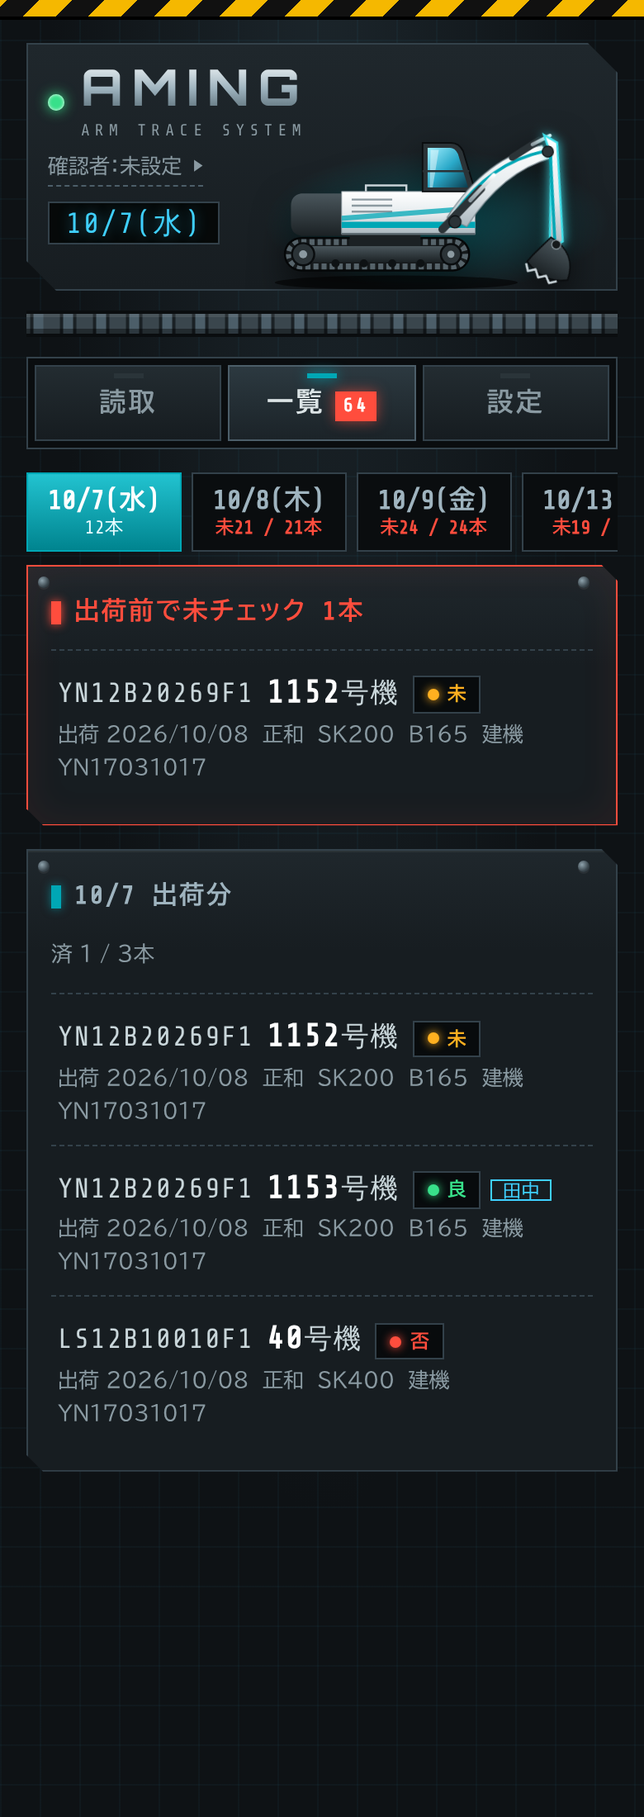
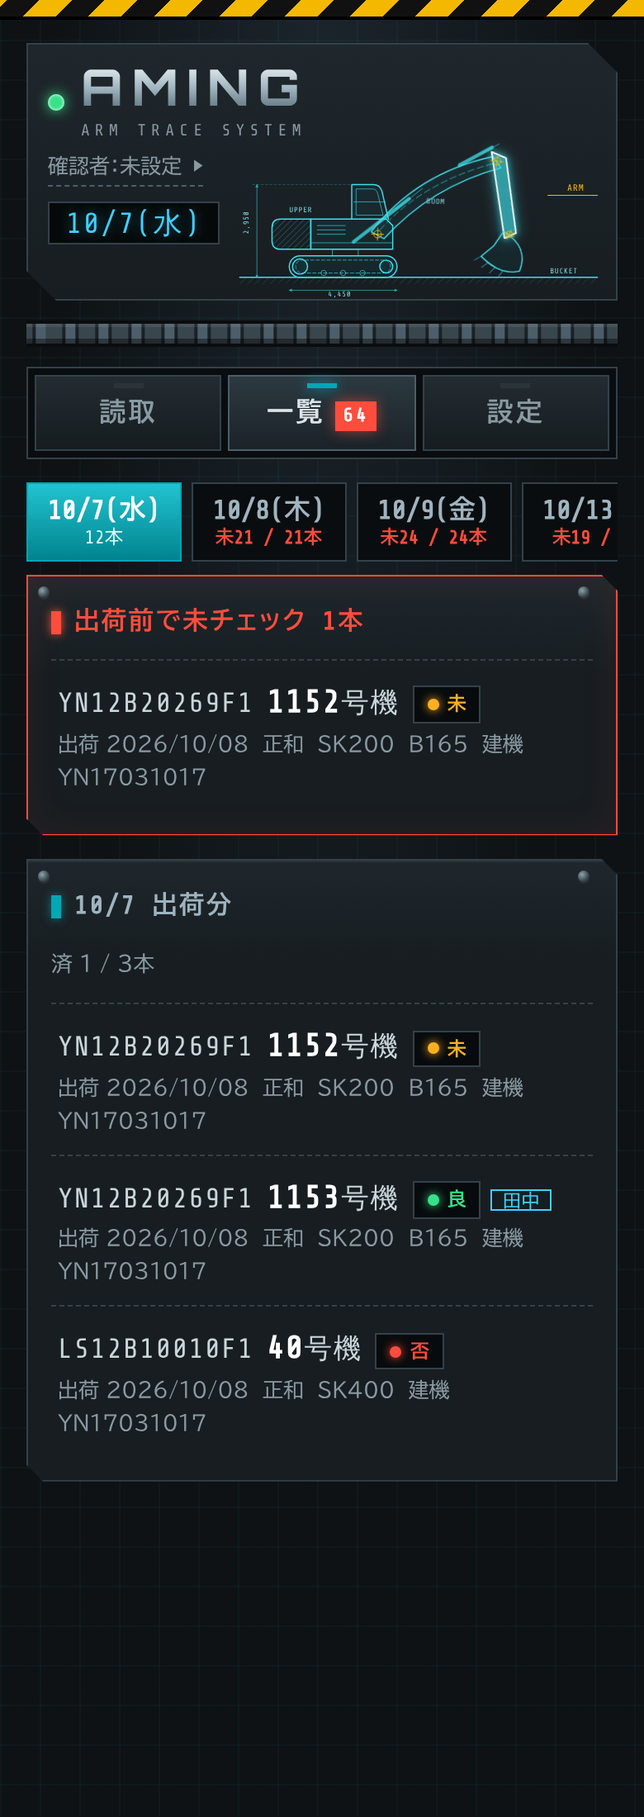
GAS: ショベルのイラストを設計図風の線画に描き直し
Claude-Session: https://claude.ai/code/session_01HFT8mKpU6VM34VUtTFDf1R

diff --git a/gas-paste/index.html b/gas-paste/index.html
@@ -162,23 +162,32 @@ textarea{min-height:64px}
 #toast:not(.show){visibility:hidden;transition:transform .25s,visibility 0s .25s}
 #toast.show{transform:translateX(-50%) translateY(0)}
 
-/* ===== パワーショベル ===== */
-:root{--body:#E9EEF0;--body2:#B9C4CA;--dark:#2A3236;--arm:#00A7B5;--glass:#3FD0FF}
-.hero{display:flex;align-items:flex-end;justify-content:space-between;gap:6px}
-.hero{min-height:150px;align-items:stretch}
+/* ===== パワーショベル（設計図風） ===== */
+.hero{display:flex;justify-content:space-between;gap:6px;min-height:156px;align-items:stretch}
 .hero>div:first-child{position:relative;z-index:1}
-.hero .exc{position:absolute;right:4px;bottom:-2px;width:62%;max-width:310px;filter:drop-shadow(0 8px 10px rgba(0,0,0,.6))}
+.hero .exc{position:absolute;right:2px;bottom:0;width:66%;max-width:330px}
+.bp{overflow:visible}
+.bp .ln{fill:rgba(0,167,181,.07);stroke:#3FE0EA;stroke-width:1.1;stroke-linejoin:round;stroke-linecap:round}
+.bp .thin{stroke-width:.6;fill:none;opacity:.8}
+.bp .cyl{stroke-width:3.2;fill:none;opacity:.75}
+.bp .dim{stroke-width:.6;fill:none;opacity:.7}
+.bp .ext{stroke-width:.4;fill:none;opacity:.45;stroke-dasharray:2 2}
+.bp .leader{fill:none;stroke:#F5B800;stroke-width:.8}
+.bp .tx{font-family:"Share Tech Mono",monospace;font-size:7px;fill:#7FD9E2;stroke:none;letter-spacing:.08em}
+.bp .tx.hot{fill:#F5B800;font-size:8.5px}
+.bp .tx.ttl{font-size:6px;fill:#4F8A93}
+.hero .bp .ttl{display:none}
+.bp .cmark{fill:none;stroke:#F5B800;stroke-width:.7}
+.bp .armln{stroke:#FFFFFF}
+.bp .armpart{fill:rgba(63,224,234,.28);stroke:#FFFFFF;stroke-width:1.4;filter:drop-shadow(0 0 3px #3FE0EA) drop-shadow(0 0 6px rgba(63,224,234,.6))}
 .exc .trk-tread{animation:tread .8s linear infinite}
-@keyframes tread{to{stroke-dashoffset:-16}}
-.exc .boom{transform-box:view-box;transform-origin:208px 100px;animation:boom 4s ease-in-out infinite alternate}
-.exc .arm{transform-box:view-box;transform-origin:296px 26px;animation:armk 4s ease-in-out infinite alternate}
-.exc .bkt{transform-box:view-box;transform-origin:316px 116px;animation:bkt 4s ease-in-out infinite alternate}
-@keyframes boom{0%{transform:rotate(-8deg)}100%{transform:rotate(7deg)}}
-@keyframes armk{0%{transform:rotate(-22deg)}100%{transform:rotate(14deg)}}
-@keyframes bkt{0%{transform:rotate(-35deg)}100%{transform:rotate(40deg)}}
-.exc .armpart{fill:url(#gBody);stroke:var(--accent-hi);stroke-width:2;filter:drop-shadow(0 0 5px rgba(63,224,234,.95))}
-.exc .dust{animation:dust 4s ease-in-out infinite alternate;transform-box:fill-box;transform-origin:center}
-@keyframes dust{0%,70%{opacity:0;transform:scale(.4)}100%{opacity:.7;transform:scale(1.2)}}
+@keyframes tread{to{stroke-dashoffset:-10}}
+.exc .boom{transform-box:view-box;transform-origin:142px 110px;animation:boom 4s ease-in-out infinite alternate}
+.exc .arm{transform-box:view-box;transform-origin:250px 38px;animation:armk 4s ease-in-out infinite alternate}
+.exc .bkt{transform-box:view-box;transform-origin:270px 104px;animation:bkt 4s ease-in-out infinite alternate}
+@keyframes boom{0%{transform:rotate(-7deg)}100%{transform:rotate(5deg)}}
+@keyframes armk{0%{transform:rotate(-18deg)}100%{transform:rotate(12deg)}}
+@keyframes bkt{0%{transform:rotate(-30deg)}100%{transform:rotate(35deg)}}
 .tracks{height:16px;margin:0 0 12px;background:
   repeating-linear-gradient(90deg,#3A464D 0 10px,#1A2125 10px 12px,#4C5E69 12px 18px,#1A2125 18px 20px);
   border-top:2px solid #0A0D0F;border-bottom:2px solid #0A0D0F;box-shadow:inset 0 2px 0 rgba(255,255,255,.08),inset 0 -3px 0 rgba(0,0,0,.4);
@@ -187,7 +196,8 @@ textarea{min-height:64px}
 #busy{position:fixed;inset:0;z-index:40;display:flex;flex-direction:column;align-items:center;justify-content:center;gap:14px;
   background:radial-gradient(ellipse at center,#18222A 0%,#070A0C 70%)}
 #busy .exc{width:min(86vw,420px)}
-#busy .exc .boom,#busy .exc .arm,#busy .exc .bkt,#busy .exc .dust{animation-duration:1.1s}
+#busy .exc .boom,#busy .exc .arm,#busy .exc .bkt{animation-duration:1.1s}
+#busy{background:linear-gradient(rgba(63,224,234,.06) 1px,transparent 1px) 0 0/16px 16px,linear-gradient(90deg,rgba(63,224,234,.06) 1px,transparent 1px) 0 0/16px 16px,radial-gradient(ellipse at center,#0E2A31 0%,#05090B 75%)!important}
 #busy p{margin:0;font-family:"Orbitron","Share Tech Mono",monospace;letter-spacing:.3em;color:var(--accent-hi);text-shadow:0 0 10px rgba(0,200,215,.6);font-size:1rem}
 #busy small{font-family:"Share Tech Mono","BIZ UDPGothic",monospace;color:var(--sub);letter-spacing:.06em}
 #busy .ground{width:min(86vw,420px);height:8px;margin-top:-18px;background:repeating-linear-gradient(-45deg,#F5B800 0 10px,#111 10px 20px)}
@@ -249,13 +259,13 @@ h1{font-size:1.9rem}
   <div id="cropStage"><div id="cropWrap"><img id="cropImg" alt="切り抜く写真"><div id="cropBox"><div class="h tl" data-h="tl"></div><div class="h tr" data-h="tr"></div><div class="h bl" data-h="bl"></div><div class="h br" data-h="br"></div></div></div></div>
   <div class="bar"><button class="btn" id="cropCancel" type="button">やめる</button><button class="btn go" id="cropOk" type="button">この範囲で読む</button></div>
 </div>
-<div id="busy" class="hidden"><div data-exc></div><div class="ground"></div><p id="busyT">READING</p><small id="busyS"></small></div>
+<div id="busy" class="hidden"><div data-exc></div><p id="busyT">READING</p><small id="busyS"></small></div>
 <div id="toast"></div>
 
 <script>
 (() => {
 const $ = id => document.getElementById(id);
-const EXC_SVG = '<svg class="exc" viewBox="0 0 360 170" aria-hidden="true">\n  <defs>\n    <linearGradient id="gBody" x1="0" y1="0" x2="0" y2="1"><stop offset="0" stop-color="#FFFFFF"/><stop offset=".55" stop-color="#E4EAED"/><stop offset="1" stop-color="#A9B6BD"/></linearGradient>\n    <linearGradient id="gDark" x1="0" y1="0" x2="0" y2="1"><stop offset="0" stop-color="#4A565C"/><stop offset="1" stop-color="#1B2124"/></linearGradient>\n    <linearGradient id="gGlass" x1="0" y1="0" x2="1" y2="1"><stop offset="0" stop-color="#9FEFFF"/><stop offset=".5" stop-color="#2AA9C9"/><stop offset="1" stop-color="#0B3B4C"/></linearGradient>\n    <linearGradient id="gRod" x1="0" y1="0" x2="0" y2="1"><stop offset="0" stop-color="#FFFFFF"/><stop offset="1" stop-color="#8C9AA1"/></linearGradient>\n    <radialGradient id="gSpot" cx=".5" cy=".5" r=".5"><stop offset="0" stop-color="#00A7B5" stop-opacity=".35"/><stop offset="1" stop-color="#00A7B5" stop-opacity="0"/></radialGradient>\n  </defs>\n  <ellipse cx="190" cy="100" rx="170" ry="70" fill="url(#gSpot)"/>\n  <ellipse cx="150" cy="160" rx="120" ry="7" fill="#000" opacity=".55"/>\n  <!-- 足回り -->\n  <path d="M40 132 a16 16 0 0 1 16 -16 h150 a16 16 0 0 1 0 32 h-150 a16 16 0 0 1 -16 -16 z" fill="#15191B" stroke="#050708" stroke-width="2"/>\n  <path d="M44 132 a12 12 0 0 1 12 -12 h150 a12 12 0 0 1 0 24 h-150 a12 12 0 0 1 -12 -12 z" fill="none" stroke="#56636A" stroke-width="6" stroke-dasharray="5 3" class="trk-tread"/>\n  <rect x="58" y="124" width="146" height="16" rx="4" fill="url(#gDark)"/>\n  <circle cx="58" cy="132" r="11" fill="#2B3337" stroke="#0A0D0F" stroke-width="2"/><circle cx="58" cy="132" r="4" fill="#8C9AA1"/>\n  <circle cx="204" cy="132" r="10" fill="#2B3337" stroke="#0A0D0F" stroke-width="2"/><circle cx="204" cy="132" r="3.5" fill="#8C9AA1"/>\n  <g fill="#0E1214"><circle cx="90" cy="141" r="4"/><circle cx="118" cy="141" r="4"/><circle cx="146" cy="141" r="4"/><circle cx="174" cy="141" r="4"/></g>\n  <rect x="104" y="112" width="70" height="12" fill="#1B2124"/>\n  <!-- 上部旋回体 -->\n  <path d="M46 84 q0 -10 10 -12 h52 v42 h-52 q-10 -2 -10 -12 z" fill="url(#gDark)"/>\n  <path d="M96 70 h122 l10 12 v30 h-132 z" fill="url(#gBody)" stroke="#7D8B92" stroke-width=".8"/>\n  <g stroke="#8C9AA1" stroke-width="2"><path d="M106 78 h40"/><path d="M106 84 h40"/><path d="M106 90 h40"/></g>\n  <path d="M96 100 h132 v6 h-132 z" fill="#00A7B5"/>\n  <path d="M96 94 l132 -10 v5 l-132 10 z" fill="#00A7B5" opacity=".75"/>\n  <path d="M96 112 h132" stroke="#5E6C73" stroke-width="2"/>\n  <path d="M120 70 v-6 h40 v6" fill="none" stroke="#C9D3D8" stroke-width="2"/>\n  <!-- キャブ -->\n  <path d="M176 22 h28 q8 0 12 8 l12 40 h-52 z" fill="#2B3337" stroke="#0A0D0F" stroke-width="1.5"/>\n  <path d="M181 27 h22 q5 0 8 6 l10 33 h-40 z" fill="url(#gGlass)"/>\n  <path d="M184 29 h8 l-6 37 h-3 z" fill="#fff" opacity=".45"/>\n  <path d="M176 50 h46" stroke="#2B3337" stroke-width="2"/>\n  <!-- ブーム（弓なり）→ アーム → バケット -->\n  <g class="boom">\n    <path d="M200 96 Q236 34 290 20 L300 32 Q252 48 220 104 Z" fill="url(#gBody)" stroke="#7D8B92" stroke-width="1"/>\n    <path d="M207 92 Q240 40 292 26" fill="none" stroke="#00A7B5" stroke-width="3"/>\n    <!-- ブームシリンダー -->\n    <path d="M196 108 L232 66" stroke="#2B3337" stroke-width="8" stroke-linecap="round"/>\n    <path d="M222 78 L244 52" stroke="url(#gRod)" stroke-width="4" stroke-linecap="round"/>\n    <circle cx="208" cy="100" r="6" fill="#2B3337" stroke="#0A0D0F"/>\n    <g class="arm">\n      <!-- アームシリンダー -->\n      <path d="M262 36 L286 16" stroke="#2B3337" stroke-width="7" stroke-linecap="round"/>\n      <path d="M280 21 L296 10" stroke="url(#gRod)" stroke-width="3.5" stroke-linecap="round"/>\n      <path class="armpart" d="M290 10 L304 16 L322 112 L310 120 L300 30 Z"/>\n      <path d="M298 24 L314 112" stroke="#00A7B5" stroke-width="3"/>\n      <circle cx="296" cy="26" r="5.5" fill="#2B3337" stroke="#0A0D0F"/>\n      <g class="bkt">\n        <path d="M308 112 q30 2 34 30 q-20 14 -44 2 l2 -8 z" fill="url(#gDark)" stroke="#0A0D0F" stroke-width="1.5"/>\n        <path d="M298 146 l5 6 l6 -5 l6 6 l6 -5 l6 5 l6 -5" fill="none" stroke="#C9D3D8" stroke-width="2.2" stroke-linejoin="round"/>\n        <circle cx="316" cy="116" r="4.5" fill="#15191B" stroke="#8C9AA1"/>\n      </g>\n    </g>\n  </g>\n  <ellipse class="dust" cx="320" cy="160" rx="30" ry="6" fill="#8A7A5C"/>\n</svg>';
+const EXC_SVG = '<svg class="exc bp" viewBox="0 0 360 170" aria-hidden="true">\n  <defs>\n    <pattern id="hatch" width="4" height="4" patternUnits="userSpaceOnUse" patternTransform="rotate(45)"><path d="M0 0 V4" stroke="#3FE0EA" stroke-width=".6" opacity=".55"/></pattern>\n    <pattern id="ghatch" width="5" height="5" patternUnits="userSpaceOnUse" patternTransform="rotate(45)"><path d="M0 0 V5" stroke="#3FE0EA" stroke-width=".5" opacity=".35"/></pattern>\n    <marker id="ar" viewBox="0 0 6 6" refX="5" refY="3" markerWidth="5" markerHeight="5" orient="auto-start-reverse"><path d="M0 0 L6 3 L0 6 z" fill="#3FE0EA"/></marker>\n  </defs>\n  <g class="ln">\n    <!-- 地面 -->\n    <path d="M14 150 H346"/>\n    <rect x="14" y="150" width="332" height="6" fill="url(#ghatch)" stroke="none"/>\n    <!-- 足回り -->\n    <path d="M70 130 H150 A10 10 0 0 1 150 150 H70 A10 10 0 0 1 70 130 Z"/>\n    <path d="M72 134 H148 A6 6 0 0 1 148 146 H72 A6 6 0 0 1 72 134 Z" class="thin trk-tread" stroke-dasharray="3 2"/>\n    <circle cx="70" cy="140" r="7"/><circle cx="150" cy="140" r="6"/>\n    <circle cx="92" cy="146" r="2.5" class="thin"/><circle cx="110" cy="146" r="2.5" class="thin"/><circle cx="128" cy="146" r="2.5" class="thin"/>\n    <path d="M100 130 V124 H124 V130" class="thin"/>\n    <!-- 上部旋回体 -->\n    <path d="M44 104 Q44 96 52 96 H80 V124 H52 Q44 124 44 116 Z" fill="url(#hatch)"/>\n    <path d="M80 96 H150 L156 102 V124 H80 Z"/>\n    <path d="M86 102 H112 M86 106 H112 M86 110 H112" class="thin"/>\n    <path d="M80 118 H156" class="thin"/>\n    <!-- キャブ -->\n    <path d="M118 96 V64 H138 Q144 64 146 70 L152 96"/>\n    <path d="M122 92 V68 H137 Q141 68 142 72 L147 92 Z" class="thin"/>\n    <path d="M120 80 H149" class="thin"/>\n    <!-- 全高の寸法線 -->\n    <path d="M30 150 V64" class="dim" marker-start="url(#ar)" marker-end="url(#ar)"/>\n    <path d="M26 64 H116" class="ext"/>\n    <text x="22" y="110" class="tx" transform="rotate(-90 22 110)">2,950</text>\n    <!-- 全長（足回り）の寸法線 -->\n    <path d="M60 162 H160" class="dim" marker-start="url(#ar)" marker-end="url(#ar)"/>\n    <text x="96" y="168" class="tx">4,450</text>\n    <text x="60" y="90" class="tx">UPPER</text>\n  </g>\n  <!-- 作業機 -->\n  <g class="boom">\n    <g class="ln">\n      <path d="M136 108 Q176 52 246 34 L254 44 Q190 64 148 114 Z"/>\n      <path d="M144 106 Q182 60 248 40" class="thin" stroke-dasharray="6 3"/>\n      <!-- ブームシリンダー -->\n      <path d="M120 118 L170 76" class="cyl"/>\n      <path d="M158 86 L182 66" class="thin"/>\n      <text x="186" y="80" class="tx">BOOM</text>\n    </g>\n    <g class="cmark"><circle cx="142" cy="110" r="3.5"/><path d="M136 110 H148 M142 104 V116"/></g>\n    <g class="arm">\n      <g class="ln">\n        <!-- アームシリンダー -->\n        <path d="M216 46 L244 26" class="cyl"/>\n        <path d="M236 32 L250 22" class="thin"/>\n      </g>\n      <g class="ln armln"><path class="armpart" d="M244 30 L258 34 L276 102 L266 108 Z"/></g>\n      <g class="cmark"><circle cx="250" cy="38" r="3.5"/><path d="M244 38 H256 M250 32 V44"/></g>\n      <g class="bkt">\n        <g class="ln">\n          <path d="M264 104 Q292 106 294 130 Q280 142 256 134 L262 120 Z"/>\n          <path d="M256 134 L252 140 M264 137 L261 143 M272 138 L270 144 M280 137 L279 143" class="thin"/>\n        </g>\n        <g class="cmark"><circle cx="270" cy="104" r="3"/><path d="M265 104 H275 M270 99 V109"/></g>\n      </g>\n    </g>\n  </g>\n  <g class="ln"><path d="M300 74 H346" class="leader"/><text x="318" y="70" class="tx hot">ARM</text><text x="302" y="146" class="tx">BUCKET</text></g>\n  <text x="14" y="12" class="tx ttl">SIDE ELEVATION  /  20t CLASS</text>\n</svg>';
 document.querySelectorAll("[data-exc]").forEach(el => { el.outerHTML = EXC_SVG; });
 function busy(on, title, sub) { $("busy").classList.toggle("hidden", !on); if (on) { $("busyT").textContent = title || "WORKING"; $("busyS").textContent = sub || ""; } }
 const run = (fn, ...args) => new Promise((res, rej) => google.script.run.withSuccessHandler(res).withFailureHandler(rej)[fn](...args));

diff --git a/gas/index.html b/gas/index.html
@@ -162,23 +162,32 @@ textarea{min-height:64px}
 #toast:not(.show){visibility:hidden;transition:transform .25s,visibility 0s .25s}
 #toast.show{transform:translateX(-50%) translateY(0)}
 
-/* ===== パワーショベル ===== */
-:root{--body:#E9EEF0;--body2:#B9C4CA;--dark:#2A3236;--arm:#00A7B5;--glass:#3FD0FF}
-.hero{display:flex;align-items:flex-end;justify-content:space-between;gap:6px}
-.hero{min-height:150px;align-items:stretch}
+/* ===== パワーショベル（設計図風） ===== */
+.hero{display:flex;justify-content:space-between;gap:6px;min-height:156px;align-items:stretch}
 .hero>div:first-child{position:relative;z-index:1}
-.hero .exc{position:absolute;right:4px;bottom:-2px;width:62%;max-width:310px;filter:drop-shadow(0 8px 10px rgba(0,0,0,.6))}
+.hero .exc{position:absolute;right:2px;bottom:0;width:66%;max-width:330px}
+.bp{overflow:visible}
+.bp .ln{fill:rgba(0,167,181,.07);stroke:#3FE0EA;stroke-width:1.1;stroke-linejoin:round;stroke-linecap:round}
+.bp .thin{stroke-width:.6;fill:none;opacity:.8}
+.bp .cyl{stroke-width:3.2;fill:none;opacity:.75}
+.bp .dim{stroke-width:.6;fill:none;opacity:.7}
+.bp .ext{stroke-width:.4;fill:none;opacity:.45;stroke-dasharray:2 2}
+.bp .leader{fill:none;stroke:#F5B800;stroke-width:.8}
+.bp .tx{font-family:"Share Tech Mono",monospace;font-size:7px;fill:#7FD9E2;stroke:none;letter-spacing:.08em}
+.bp .tx.hot{fill:#F5B800;font-size:8.5px}
+.bp .tx.ttl{font-size:6px;fill:#4F8A93}
+.hero .bp .ttl{display:none}
+.bp .cmark{fill:none;stroke:#F5B800;stroke-width:.7}
+.bp .armln{stroke:#FFFFFF}
+.bp .armpart{fill:rgba(63,224,234,.28);stroke:#FFFFFF;stroke-width:1.4;filter:drop-shadow(0 0 3px #3FE0EA) drop-shadow(0 0 6px rgba(63,224,234,.6))}
 .exc .trk-tread{animation:tread .8s linear infinite}
-@keyframes tread{to{stroke-dashoffset:-16}}
-.exc .boom{transform-box:view-box;transform-origin:208px 100px;animation:boom 4s ease-in-out infinite alternate}
-.exc .arm{transform-box:view-box;transform-origin:296px 26px;animation:armk 4s ease-in-out infinite alternate}
-.exc .bkt{transform-box:view-box;transform-origin:316px 116px;animation:bkt 4s ease-in-out infinite alternate}
-@keyframes boom{0%{transform:rotate(-8deg)}100%{transform:rotate(7deg)}}
-@keyframes armk{0%{transform:rotate(-22deg)}100%{transform:rotate(14deg)}}
-@keyframes bkt{0%{transform:rotate(-35deg)}100%{transform:rotate(40deg)}}
-.exc .armpart{fill:url(#gBody);stroke:var(--accent-hi);stroke-width:2;filter:drop-shadow(0 0 5px rgba(63,224,234,.95))}
-.exc .dust{animation:dust 4s ease-in-out infinite alternate;transform-box:fill-box;transform-origin:center}
-@keyframes dust{0%,70%{opacity:0;transform:scale(.4)}100%{opacity:.7;transform:scale(1.2)}}
+@keyframes tread{to{stroke-dashoffset:-10}}
+.exc .boom{transform-box:view-box;transform-origin:142px 110px;animation:boom 4s ease-in-out infinite alternate}
+.exc .arm{transform-box:view-box;transform-origin:250px 38px;animation:armk 4s ease-in-out infinite alternate}
+.exc .bkt{transform-box:view-box;transform-origin:270px 104px;animation:bkt 4s ease-in-out infinite alternate}
+@keyframes boom{0%{transform:rotate(-7deg)}100%{transform:rotate(5deg)}}
+@keyframes armk{0%{transform:rotate(-18deg)}100%{transform:rotate(12deg)}}
+@keyframes bkt{0%{transform:rotate(-30deg)}100%{transform:rotate(35deg)}}
 .tracks{height:16px;margin:0 0 12px;background:
   repeating-linear-gradient(90deg,#3A464D 0 10px,#1A2125 10px 12px,#4C5E69 12px 18px,#1A2125 18px 20px);
   border-top:2px solid #0A0D0F;border-bottom:2px solid #0A0D0F;box-shadow:inset 0 2px 0 rgba(255,255,255,.08),inset 0 -3px 0 rgba(0,0,0,.4);
@@ -187,7 +196,8 @@ textarea{min-height:64px}
 #busy{position:fixed;inset:0;z-index:40;display:flex;flex-direction:column;align-items:center;justify-content:center;gap:14px;
   background:radial-gradient(ellipse at center,#18222A 0%,#070A0C 70%)}
 #busy .exc{width:min(86vw,420px)}
-#busy .exc .boom,#busy .exc .arm,#busy .exc .bkt,#busy .exc .dust{animation-duration:1.1s}
+#busy .exc .boom,#busy .exc .arm,#busy .exc .bkt{animation-duration:1.1s}
+#busy{background:linear-gradient(rgba(63,224,234,.06) 1px,transparent 1px) 0 0/16px 16px,linear-gradient(90deg,rgba(63,224,234,.06) 1px,transparent 1px) 0 0/16px 16px,radial-gradient(ellipse at center,#0E2A31 0%,#05090B 75%)!important}
 #busy p{margin:0;font-family:"Orbitron","Share Tech Mono",monospace;letter-spacing:.3em;color:var(--accent-hi);text-shadow:0 0 10px rgba(0,200,215,.6);font-size:1rem}
 #busy small{font-family:"Share Tech Mono","BIZ UDPGothic",monospace;color:var(--sub);letter-spacing:.06em}
 #busy .ground{width:min(86vw,420px);height:8px;margin-top:-18px;background:repeating-linear-gradient(-45deg,#F5B800 0 10px,#111 10px 20px)}
@@ -249,13 +259,13 @@ h1{font-size:1.9rem}
   <div id="cropStage"><div id="cropWrap"><img id="cropImg" alt="切り抜く写真"><div id="cropBox"><div class="h tl" data-h="tl"></div><div class="h tr" data-h="tr"></div><div class="h bl" data-h="bl"></div><div class="h br" data-h="br"></div></div></div></div>
   <div class="bar"><button class="btn" id="cropCancel" type="button">やめる</button><button class="btn go" id="cropOk" type="button">この範囲で読む</button></div>
 </div>
-<div id="busy" class="hidden"><div data-exc></div><div class="ground"></div><p id="busyT">READING</p><small id="busyS"></small></div>
+<div id="busy" class="hidden"><div data-exc></div><p id="busyT">READING</p><small id="busyS"></small></div>
 <div id="toast"></div>
 
 <script>
 (() => {
 const $ = id => document.getElementById(id);
-const EXC_SVG = '<svg class="exc" viewBox="0 0 360 170" aria-hidden="true">\n  <defs>\n    <linearGradient id="gBody" x1="0" y1="0" x2="0" y2="1"><stop offset="0" stop-color="#FFFFFF"/><stop offset=".55" stop-color="#E4EAED"/><stop offset="1" stop-color="#A9B6BD"/></linearGradient>\n    <linearGradient id="gDark" x1="0" y1="0" x2="0" y2="1"><stop offset="0" stop-color="#4A565C"/><stop offset="1" stop-color="#1B2124"/></linearGradient>\n    <linearGradient id="gGlass" x1="0" y1="0" x2="1" y2="1"><stop offset="0" stop-color="#9FEFFF"/><stop offset=".5" stop-color="#2AA9C9"/><stop offset="1" stop-color="#0B3B4C"/></linearGradient>\n    <linearGradient id="gRod" x1="0" y1="0" x2="0" y2="1"><stop offset="0" stop-color="#FFFFFF"/><stop offset="1" stop-color="#8C9AA1"/></linearGradient>\n    <radialGradient id="gSpot" cx=".5" cy=".5" r=".5"><stop offset="0" stop-color="#00A7B5" stop-opacity=".35"/><stop offset="1" stop-color="#00A7B5" stop-opacity="0"/></radialGradient>\n  </defs>\n  <ellipse cx="190" cy="100" rx="170" ry="70" fill="url(#gSpot)"/>\n  <ellipse cx="150" cy="160" rx="120" ry="7" fill="#000" opacity=".55"/>\n  <!-- 足回り -->\n  <path d="M40 132 a16 16 0 0 1 16 -16 h150 a16 16 0 0 1 0 32 h-150 a16 16 0 0 1 -16 -16 z" fill="#15191B" stroke="#050708" stroke-width="2"/>\n  <path d="M44 132 a12 12 0 0 1 12 -12 h150 a12 12 0 0 1 0 24 h-150 a12 12 0 0 1 -12 -12 z" fill="none" stroke="#56636A" stroke-width="6" stroke-dasharray="5 3" class="trk-tread"/>\n  <rect x="58" y="124" width="146" height="16" rx="4" fill="url(#gDark)"/>\n  <circle cx="58" cy="132" r="11" fill="#2B3337" stroke="#0A0D0F" stroke-width="2"/><circle cx="58" cy="132" r="4" fill="#8C9AA1"/>\n  <circle cx="204" cy="132" r="10" fill="#2B3337" stroke="#0A0D0F" stroke-width="2"/><circle cx="204" cy="132" r="3.5" fill="#8C9AA1"/>\n  <g fill="#0E1214"><circle cx="90" cy="141" r="4"/><circle cx="118" cy="141" r="4"/><circle cx="146" cy="141" r="4"/><circle cx="174" cy="141" r="4"/></g>\n  <rect x="104" y="112" width="70" height="12" fill="#1B2124"/>\n  <!-- 上部旋回体 -->\n  <path d="M46 84 q0 -10 10 -12 h52 v42 h-52 q-10 -2 -10 -12 z" fill="url(#gDark)"/>\n  <path d="M96 70 h122 l10 12 v30 h-132 z" fill="url(#gBody)" stroke="#7D8B92" stroke-width=".8"/>\n  <g stroke="#8C9AA1" stroke-width="2"><path d="M106 78 h40"/><path d="M106 84 h40"/><path d="M106 90 h40"/></g>\n  <path d="M96 100 h132 v6 h-132 z" fill="#00A7B5"/>\n  <path d="M96 94 l132 -10 v5 l-132 10 z" fill="#00A7B5" opacity=".75"/>\n  <path d="M96 112 h132" stroke="#5E6C73" stroke-width="2"/>\n  <path d="M120 70 v-6 h40 v6" fill="none" stroke="#C9D3D8" stroke-width="2"/>\n  <!-- キャブ -->\n  <path d="M176 22 h28 q8 0 12 8 l12 40 h-52 z" fill="#2B3337" stroke="#0A0D0F" stroke-width="1.5"/>\n  <path d="M181 27 h22 q5 0 8 6 l10 33 h-40 z" fill="url(#gGlass)"/>\n  <path d="M184 29 h8 l-6 37 h-3 z" fill="#fff" opacity=".45"/>\n  <path d="M176 50 h46" stroke="#2B3337" stroke-width="2"/>\n  <!-- ブーム（弓なり）→ アーム → バケット -->\n  <g class="boom">\n    <path d="M200 96 Q236 34 290 20 L300 32 Q252 48 220 104 Z" fill="url(#gBody)" stroke="#7D8B92" stroke-width="1"/>\n    <path d="M207 92 Q240 40 292 26" fill="none" stroke="#00A7B5" stroke-width="3"/>\n    <!-- ブームシリンダー -->\n    <path d="M196 108 L232 66" stroke="#2B3337" stroke-width="8" stroke-linecap="round"/>\n    <path d="M222 78 L244 52" stroke="url(#gRod)" stroke-width="4" stroke-linecap="round"/>\n    <circle cx="208" cy="100" r="6" fill="#2B3337" stroke="#0A0D0F"/>\n    <g class="arm">\n      <!-- アームシリンダー -->\n      <path d="M262 36 L286 16" stroke="#2B3337" stroke-width="7" stroke-linecap="round"/>\n      <path d="M280 21 L296 10" stroke="url(#gRod)" stroke-width="3.5" stroke-linecap="round"/>\n      <path class="armpart" d="M290 10 L304 16 L322 112 L310 120 L300 30 Z"/>\n      <path d="M298 24 L314 112" stroke="#00A7B5" stroke-width="3"/>\n      <circle cx="296" cy="26" r="5.5" fill="#2B3337" stroke="#0A0D0F"/>\n      <g class="bkt">\n        <path d="M308 112 q30 2 34 30 q-20 14 -44 2 l2 -8 z" fill="url(#gDark)" stroke="#0A0D0F" stroke-width="1.5"/>\n        <path d="M298 146 l5 6 l6 -5 l6 6 l6 -5 l6 5 l6 -5" fill="none" stroke="#C9D3D8" stroke-width="2.2" stroke-linejoin="round"/>\n        <circle cx="316" cy="116" r="4.5" fill="#15191B" stroke="#8C9AA1"/>\n      </g>\n    </g>\n  </g>\n  <ellipse class="dust" cx="320" cy="160" rx="30" ry="6" fill="#8A7A5C"/>\n</svg>';
+const EXC_SVG = '<svg class="exc bp" viewBox="0 0 360 170" aria-hidden="true">\n  <defs>\n    <pattern id="hatch" width="4" height="4" patternUnits="userSpaceOnUse" patternTransform="rotate(45)"><path d="M0 0 V4" stroke="#3FE0EA" stroke-width=".6" opacity=".55"/></pattern>\n    <pattern id="ghatch" width="5" height="5" patternUnits="userSpaceOnUse" patternTransform="rotate(45)"><path d="M0 0 V5" stroke="#3FE0EA" stroke-width=".5" opacity=".35"/></pattern>\n    <marker id="ar" viewBox="0 0 6 6" refX="5" refY="3" markerWidth="5" markerHeight="5" orient="auto-start-reverse"><path d="M0 0 L6 3 L0 6 z" fill="#3FE0EA"/></marker>\n  </defs>\n  <g class="ln">\n    <!-- 地面 -->\n    <path d="M14 150 H346"/>\n    <rect x="14" y="150" width="332" height="6" fill="url(#ghatch)" stroke="none"/>\n    <!-- 足回り -->\n    <path d="M70 130 H150 A10 10 0 0 1 150 150 H70 A10 10 0 0 1 70 130 Z"/>\n    <path d="M72 134 H148 A6 6 0 0 1 148 146 H72 A6 6 0 0 1 72 134 Z" class="thin trk-tread" stroke-dasharray="3 2"/>\n    <circle cx="70" cy="140" r="7"/><circle cx="150" cy="140" r="6"/>\n    <circle cx="92" cy="146" r="2.5" class="thin"/><circle cx="110" cy="146" r="2.5" class="thin"/><circle cx="128" cy="146" r="2.5" class="thin"/>\n    <path d="M100 130 V124 H124 V130" class="thin"/>\n    <!-- 上部旋回体 -->\n    <path d="M44 104 Q44 96 52 96 H80 V124 H52 Q44 124 44 116 Z" fill="url(#hatch)"/>\n    <path d="M80 96 H150 L156 102 V124 H80 Z"/>\n    <path d="M86 102 H112 M86 106 H112 M86 110 H112" class="thin"/>\n    <path d="M80 118 H156" class="thin"/>\n    <!-- キャブ -->\n    <path d="M118 96 V64 H138 Q144 64 146 70 L152 96"/>\n    <path d="M122 92 V68 H137 Q141 68 142 72 L147 92 Z" class="thin"/>\n    <path d="M120 80 H149" class="thin"/>\n    <!-- 全高の寸法線 -->\n    <path d="M30 150 V64" class="dim" marker-start="url(#ar)" marker-end="url(#ar)"/>\n    <path d="M26 64 H116" class="ext"/>\n    <text x="22" y="110" class="tx" transform="rotate(-90 22 110)">2,950</text>\n    <!-- 全長（足回り）の寸法線 -->\n    <path d="M60 162 H160" class="dim" marker-start="url(#ar)" marker-end="url(#ar)"/>\n    <text x="96" y="168" class="tx">4,450</text>\n    <text x="60" y="90" class="tx">UPPER</text>\n  </g>\n  <!-- 作業機 -->\n  <g class="boom">\n    <g class="ln">\n      <path d="M136 108 Q176 52 246 34 L254 44 Q190 64 148 114 Z"/>\n      <path d="M144 106 Q182 60 248 40" class="thin" stroke-dasharray="6 3"/>\n      <!-- ブームシリンダー -->\n      <path d="M120 118 L170 76" class="cyl"/>\n      <path d="M158 86 L182 66" class="thin"/>\n      <text x="186" y="80" class="tx">BOOM</text>\n    </g>\n    <g class="cmark"><circle cx="142" cy="110" r="3.5"/><path d="M136 110 H148 M142 104 V116"/></g>\n    <g class="arm">\n      <g class="ln">\n        <!-- アームシリンダー -->\n        <path d="M216 46 L244 26" class="cyl"/>\n        <path d="M236 32 L250 22" class="thin"/>\n      </g>\n      <g class="ln armln"><path class="armpart" d="M244 30 L258 34 L276 102 L266 108 Z"/></g>\n      <g class="cmark"><circle cx="250" cy="38" r="3.5"/><path d="M244 38 H256 M250 32 V44"/></g>\n      <g class="bkt">\n        <g class="ln">\n          <path d="M264 104 Q292 106 294 130 Q280 142 256 134 L262 120 Z"/>\n          <path d="M256 134 L252 140 M264 137 L261 143 M272 138 L270 144 M280 137 L279 143" class="thin"/>\n        </g>\n        <g class="cmark"><circle cx="270" cy="104" r="3"/><path d="M265 104 H275 M270 99 V109"/></g>\n      </g>\n    </g>\n  </g>\n  <g class="ln"><path d="M300 74 H346" class="leader"/><text x="318" y="70" class="tx hot">ARM</text><text x="302" y="146" class="tx">BUCKET</text></g>\n  <text x="14" y="12" class="tx ttl">SIDE ELEVATION  /  20t CLASS</text>\n</svg>';
 document.querySelectorAll("[data-exc]").forEach(el => { el.outerHTML = EXC_SVG; });
 function busy(on, title, sub) { $("busy").classList.toggle("hidden", !on); if (on) { $("busyT").textContent = title || "WORKING"; $("busyS").textContent = sub || ""; } }
 const run = (fn, ...args) => new Promise((res, rej) => google.script.run.withSuccessHandler(res).withFailureHandler(rej)[fn](...args));

diff --git a/CLAUDE.md b/CLAUDE.md
@@ -14,7 +14,7 @@
 | `gas/03_フォント見本.js` | 刻印機 Telesis TMC470 の11x16ドットフォント見本（PNG base64）。AI読取の1枚目に添える。元画像 `data/telesis_font_11x16.png` |
 | `gas/03_通知.js` | `notifyUnchecked`：次の出荷日（台帳上の翌出荷日）分で「良」がないアームをメール。`TRACK_FROM`（運用開始日 2026/10/08）より前の出荷は対象外 |
 | `gas/04_テスト.js` | GASエディタで実行する確認用関数 |
-| `gas/index.html` | 画面。見た目はダーク×メカ×パワーショベル、色はコベルコ建機のブランドカラー（白×ブルーグリーン `--accent:#00A7B5`。ハザード帯だけ安全表示の黄黒）（ハザード帯・面取りパネル・ボルト・LED・キャタピラ帯・ヘッダーにSVGショベル＝ブーム/アーム/バケットが掘るアニメ、アームだけ黄色発光。AI読取中は全画面ショベル `#busy`）。ロゴ等は使わずオリジナル描画。スクショ `docs/screen_*.png`。（読取／一覧／記録／設定＝自分の名前選択とCSVのみ。確認者の追加は設定シート、取込はトリガー任せ）。カメラ枠・切り抜き・凹凸強調は旧版から移植 |
+| `gas/index.html` | 画面。見た目はダーク×メカ×パワーショベル、色はコベルコ建機のブランドカラー（白×ブルーグリーン `--accent:#00A7B5`。ハザード帯だけ安全表示の黄黒）（ハザード帯・面取りパネル・ボルト・LED・キャタピラ帯・ヘッダーに設計図風の線画ショベル（20tクラス側面図・寸法線・支点の中心マーク）＝ブーム/アーム/バケットが掘るアニメ、アームだけ白＋発光。AI読取中は全画面ショベル `#busy`）。ロゴ等は使わずオリジナル描画。スクショ `docs/screen_*.png`。（読取／一覧／記録／設定＝自分の名前選択とCSVのみ。確認者の追加は設定シート、取込はトリガー任せ）。カメラ枠・切り抜き・凹凸強調は旧版から移植 |
 | `test/gas.test.js` | 照合・Excel解析・画面(jsdom＋google.script.runモック)のテスト |
 
 - 台帳キー＝`図番_号機`。元Excel「出荷明細」シート（ヘッダー5行目、A列「注文番号（写し）」）。3年分約8,400行→アーム7,918本（ブームブラケット等は `EXCLUDE_KISHU` で除外、図番+号機の重複63件は出荷日が新しい方を採用し「要確認」シートへ）
